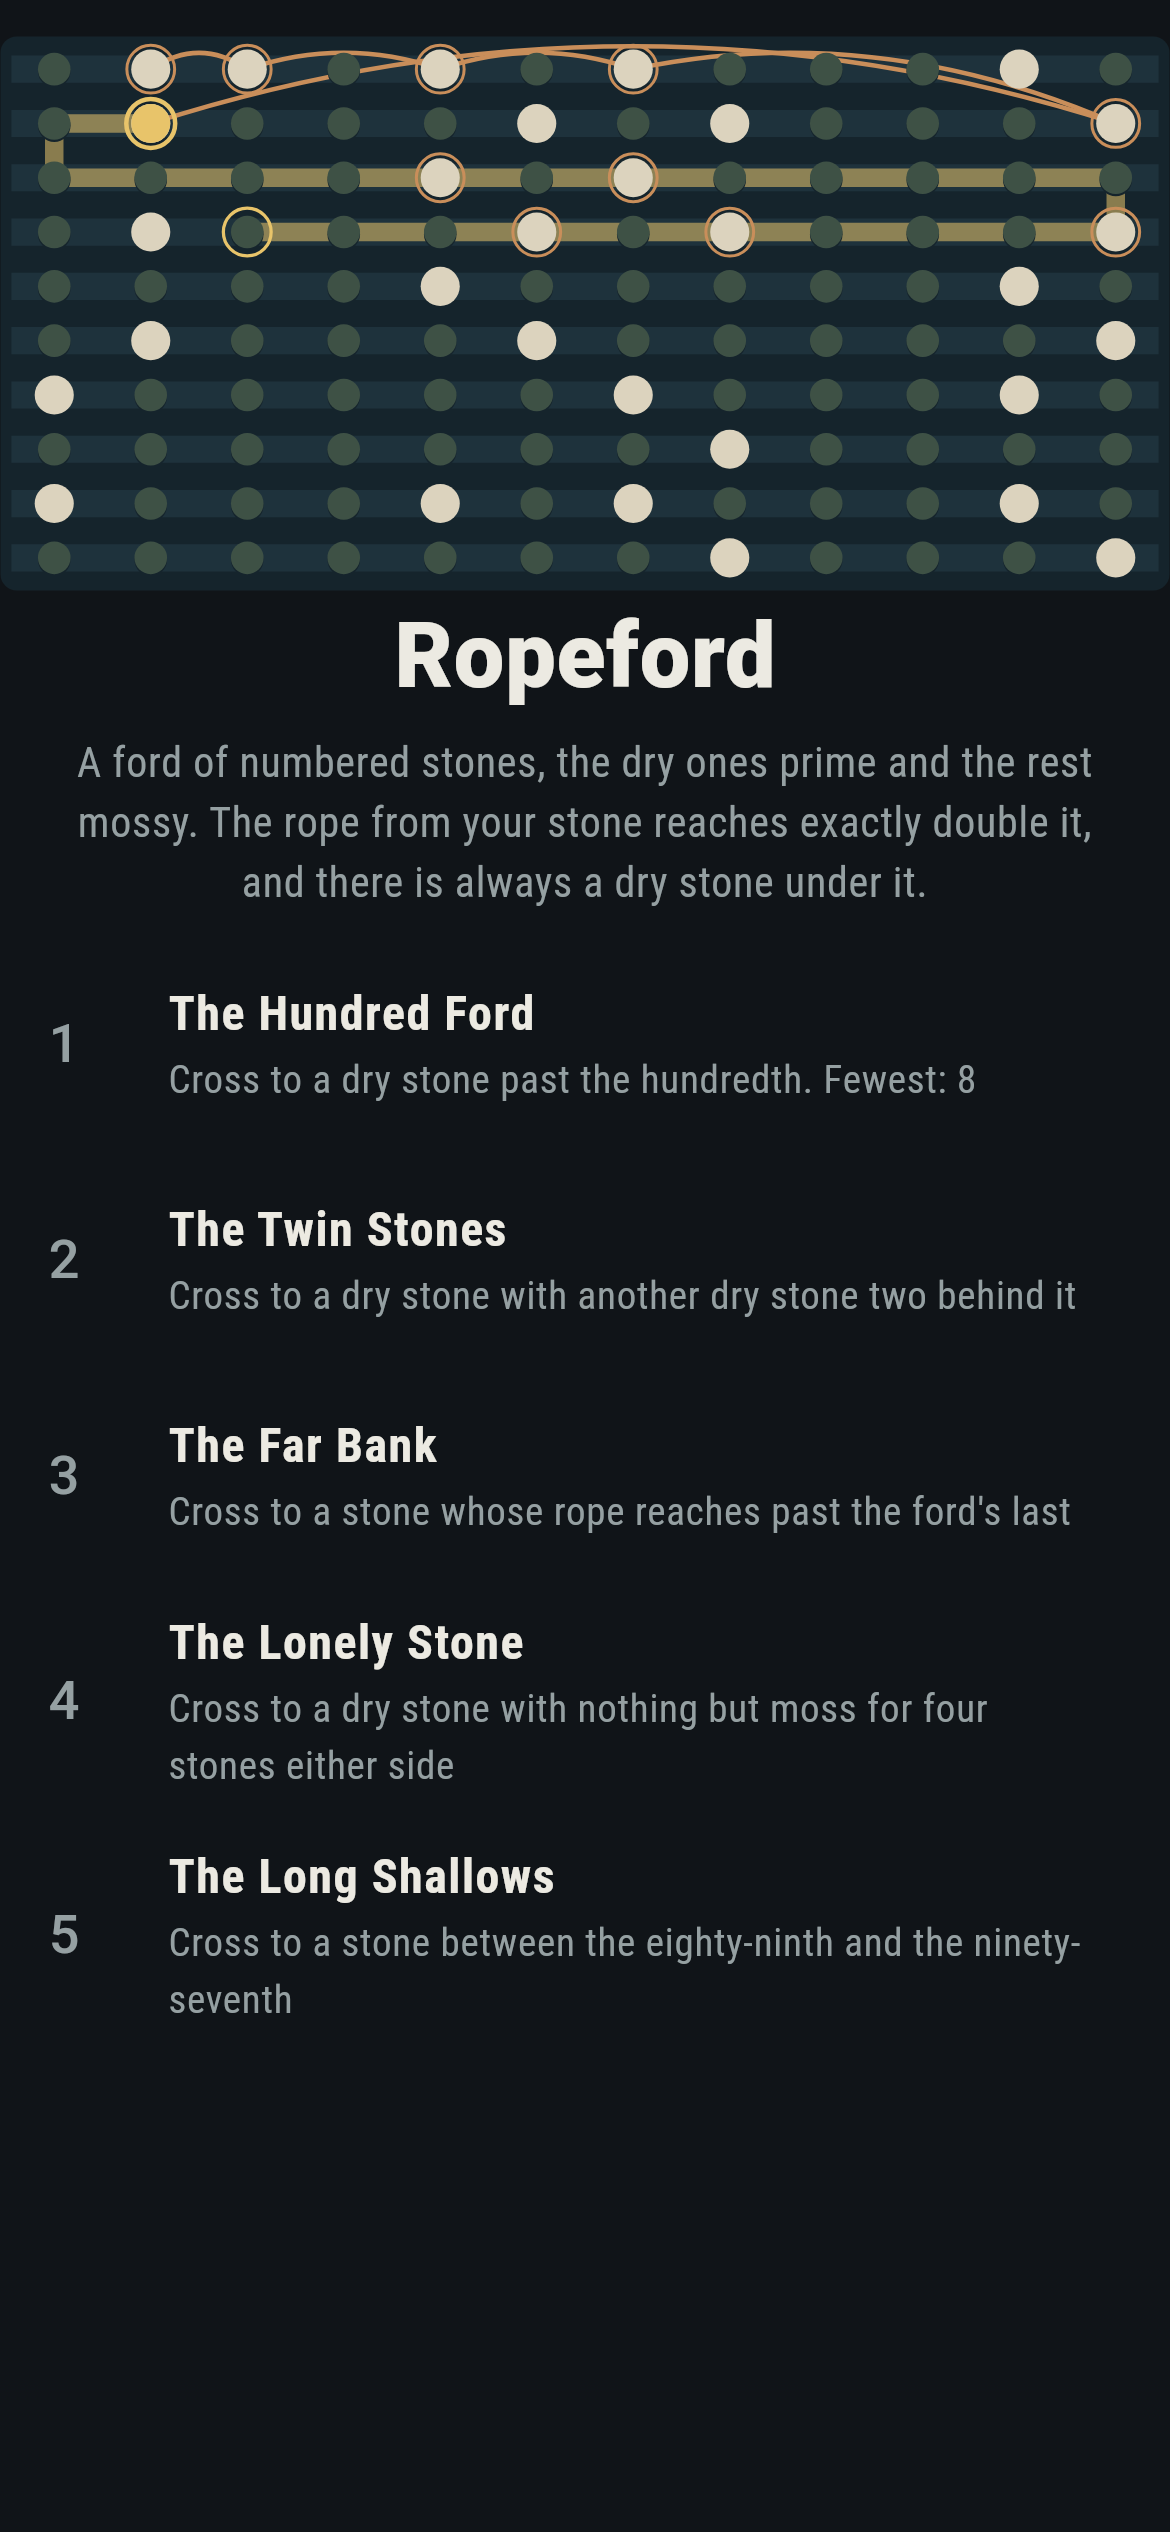
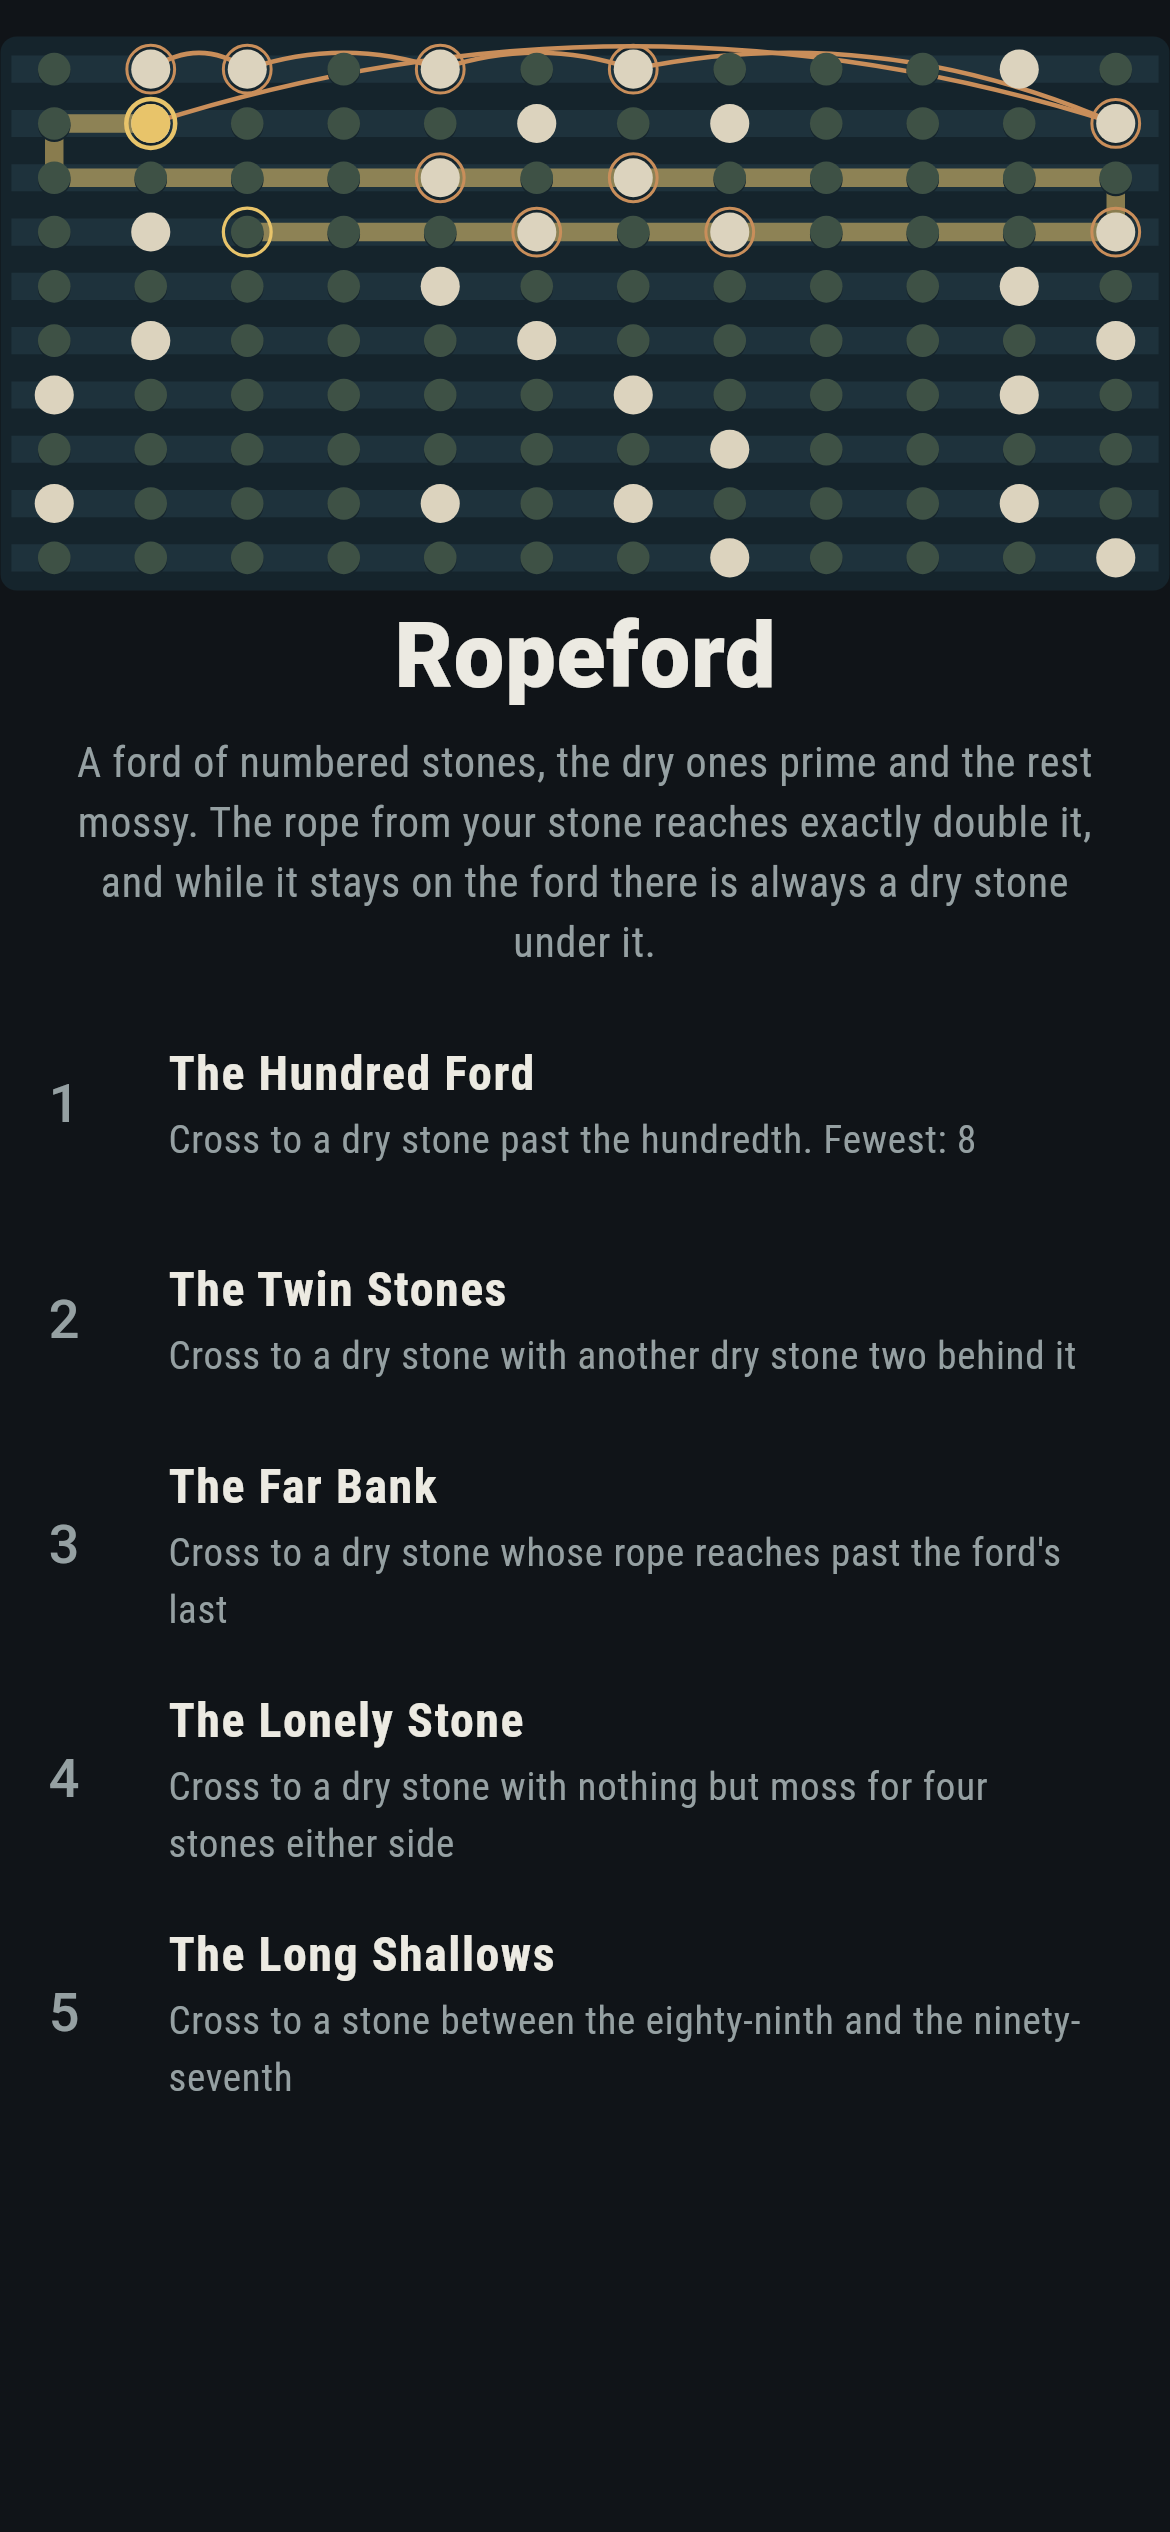
Ropeford: what the checkers found in the prose

diff --git a/Ropeford/lib/ford/play.dart b/Ropeford/lib/ford/play.dart
@@ -114,18 +114,21 @@ String whyWords(Play play) {
       'as far as 2n, and a hop may go to any dry stone past n that the rope '
       'covers. Bertrand\'s postulate says there is always one: for every n '
       'above 1 there is a prime p with n < p < 2n. Joseph Bertrand put it in '
-      '1845 after checking the numbers up to three million; Pafnuty '
-      'Chebyshev proved it in 1852, and Paul Erdos gave the short proof in '
-      '1932, in his first published paper.\n\n'
+      '1845, in the stronger form n < p < 2n - 2, after checking the numbers '
+      'up to three million; Pafnuty Chebyshev proved it in 1850 and printed '
+      'the proof in 1852; Srinivasa Ramanujan gave a simpler proof in 1919, '
+      'and Paul Erdos a short elementary one in 1932, his first paper in a '
+      'research journal.\n\n'
       'What the postulate does not say is where the dry stone will be, and '
       'that is the game. The small cases are settled with a chain of stones '
-      'each less than twice the one before, ${Rules.chain.join(', ')} here, '
-      'and the same chain is what the crossing does when it always takes the '
-      'farthest stone in reach.\n\n'
-      'The sham sieves the ford twice, once by Eratosthenes and once by '
-      'trial division, walks every stone of it for the fewest hops, and '
-      'checks the promise on every number it can reach.\n\n'
+      'each less than twice the one before, and the crossing that always '
+      'takes the farthest stone in reach is one such chain, '
+      '${Rules.chain.join(', ')} here.\n\n'
+      'The sham walks every stone of the ford for the fewest hops. Before it '
+      'shipped, the checker sieved the ford twice, once by Eratosthenes and '
+      'once by trial division, and asked every number up to 200,000 for a '
+      'dry stone inside its rope.\n\n'
       'This is ask $number, ${level.name}. ${level.note}\n\n'
-      'The tile\'s counts are the sweep\'s: every stone of the ford, taken '
-      'in turn.';
+      'The counts on the card at the end are the sweep\'s: every stone of '
+      'the ford, taken in turn.';
 }

diff --git a/Ropeford/tool/check_ford.dart b/Ropeford/tool/check_ford.dart
@@ -104,7 +104,7 @@ void main() {
   check(queue.length == stones.length, 'the walk left stones unreached');
 
   // The layers of that walk are exactly the chain's steps: everything
-  // dry up to the chain's dth stone, and nothing beyond it.
+  // dry up to where the chain stands after d hops, and nothing beyond.
   for (var i = 0; i < stones.length; i++) {
     final d = far[i];
     check(stones[i] <= chain[d] && (d == 0 || stones[i] > chain[d - 1]),
@@ -217,8 +217,9 @@ void main() {
         'inside the rope\'s reach and given one, the first above it found '
         'twice, by a pointer walking the sieve and, up to ${commas(byHand)}, '
         'by trial division counting up from n + 1, the two agreeing on every '
-        'one: the promise never fails, and the closest it comes is stone 3, '
-        'where the next dry stone is 5 and the rope reaches 6; the strict '
+        'one: the promise never fails, and from stone 2 on the stone that '
+        'uses the most of its rope is 3, where the next dry stone is 5 and '
+        'the rope reaches 6; the strict '
         'form n < p < 2n holds from 2 up and fails at 1 alone, where the '
         'only stone in reach is the rope\'s own end')
     ..write('; the greedy crossing, always the farthest stone the rope '
@@ -227,7 +228,8 @@ void main() {
         'stone by stone and chain unseen, gives the same counts: '
         '${passing(100)} hops to pass a hundred, ${passing(1000)} a thousand, '
         '${passing(10000)} ten thousand, and the stones reachable in d hops '
-        'are exactly the dry ones up to the chain\'s dth')
+        'or fewer are exactly the dry ones up to where the chain stands '
+        'after d hops')
     ..write('; on the ford itself, ${Rules.stones} stones with '
         '${Rules.dryStones.length} dry, sieved and divided out and agreeing '
         'on every one, every dry stone can be reached and none takes more '

diff --git a/Ropeford/lib/ford/rules.dart b/Ropeford/lib/ford/rules.dart
@@ -4,11 +4,13 @@
 /// as far as 2n, and a hop may go to any dry stone past n and no
 /// further than the rope's end.
 ///
-/// Bertrand's postulate, put by Joseph Bertrand in 1845 and proved by
-/// Pafnuty Chebyshev in 1852, is that there is always a dry stone in
-/// reach: for every n greater than 1 there is a prime p with
-/// n < p < 2n. So the ford can never strand you, though it never says
-/// where the next dry stone will be.
+/// Bertrand's postulate, put by Joseph Bertrand in 1845 in the stronger
+/// form n < p < 2n - 2 and proved by Pafnuty Chebyshev in 1850, is that
+/// there is always a dry stone in reach: for every n greater than 1
+/// there is a prime p with n < p < 2n. So the numbers can never strand
+/// you, though the ford still can, since it stops at 120: from stone
+/// 113 the next dry stone, 127, is past its end. What the postulate
+/// never says is where the next dry stone will be.
 class Rules {
   /// The ford's stones, 1 to [stones].
   static const stones = 120;
@@ -93,9 +95,9 @@ class Rules {
   }
 
   /// The crossing that always takes the farthest stone in reach, from
-  /// [from] to the end of the ford. It is the certificate the small
-  /// cases of the postulate are settled with, each stone under twice
-  /// the one before.
+  /// [from] to the end of the ford. It is a certificate of the kind the
+  /// small cases of the postulate are settled with, each stone under
+  /// twice the one before.
   static List<int> chainFrom(int from) {
     final walk = [from];
     for (var far = farthest(from); far != null; far = farthest(walk.last)) {

diff --git a/Ropeford/test/ford_test.dart b/Ropeford/test/ford_test.dart
@@ -50,8 +50,8 @@ void main() {
       expect(Rules.hops[89], 8);
       for (final stone in Rules.dryStones) {
         final d = Rules.hops[stone]!;
-        // The stones reached in d hops are exactly the dry ones up to
-        // the chain's dth, which is what the chain is a certificate of.
+        // The stones reached in d hops or fewer are exactly the dry ones
+        // up to where the greedy chain stands after d hops.
         expect(stone, lessThanOrEqualTo(Rules.chain[d]), reason: '$stone');
         if (d > 0) expect(stone, greaterThan(Rules.chain[d - 1]), reason: '$stone');
       }
@@ -98,7 +98,7 @@ void main() {
     test('each ask says what it wants', () {
       expect(Levels.at(0).task, 'cross to a dry stone past the hundredth');
       expect(Levels.at(2).task,
-          'cross to a stone whose rope reaches past the ford\'s last');
+          'cross to a dry stone whose rope reaches past the ford\'s last');
       expect(Levels.at(4).task,
           'cross to a stone between the eighty-ninth and the ninety-seventh');
     });

diff --git a/Ropeford/lib/ford/levels.dart b/Ropeford/lib/ford/levels.dart
@@ -45,13 +45,15 @@ class Levels {
       name: 'The Long Shallows',
       kind: 'shallows',
       ways: 0,
-      note: 'Hopeless, and the tile says so. The seven stones between 89 and '
+      note: 'Hopeless, and the board says so in red. The seven stones '
+          'between 89 and '
           '97 are all mossy: 90, 92, 94 and 96 are even, 93 is 3 times 31, '
           '95 is 5 times 19, and 91, which looks dry enough, is 7 times 13. '
-          'Bertrand promises a dry stone somewhere in the rope\'s reach, '
-          'never one where you happen to want it. From stone 89 the rope '
-          'covers all seven and reaches on to 178, where dry stones are '
-          'plentiful again.',
+          'Bertrand promises a dry stone somewhere in the rope\'s reach and '
+          'never says where it will be. From stone 89 the rope covers all '
+          'seven and reaches on to 178, though the ford stops at 120, and '
+          'the dry stones of the ford under it are 97, 101, 103, 107, 109 '
+          'and 113.',
     ),
   ];
 

diff --git a/Ropeford/lib/ui/result_card.dart b/Ropeford/lib/ui/result_card.dart
@@ -40,9 +40,9 @@ class ResultCard extends StatelessWidget {
       words = 'No crossing ends between 89 and 97. The seven stones there are '
           'all mossy: 90, 92, 94 and 96 are even, ${Rules.tellMoss(93)}, '
           '${Rules.tellMoss(95)}, and ${Rules.tellMoss(91)}. Bertrand\'s '
-          'postulate promises a dry stone somewhere under the rope, never one '
-          'where you want it: from stone ${play.at} the rope reaches '
-          '${play.rope}, and ${play.inReach.isEmpty ? 'the ford runs out first' : 'the dry stones under it are ${play.inReach.join(', ')}'}.';
+          'postulate promises a dry stone somewhere under the rope and never '
+          'says where: from stone ${play.at} the rope reaches '
+          '${play.rope}, and ${play.inReach.isEmpty ? 'the ford runs out first' : 'the dry stones of the ford under it are ${play.inReach.join(', ')}'}.';
     }
     return Card(
       color: Palette.board,

diff --git a/Ropeford/test/screen_test.dart b/Ropeford/test/screen_test.dart
@@ -14,7 +14,8 @@ void main() {
     expect(find.text('stone 2'), findsOneWidget);
     expect(find.text('1 dry in reach'), findsOneWidget);
     expect(find.text('hops 0'), findsOneWidget);
-    expect(find.text('On stone 2, the rope out to 4: the dry stones under it are 3.'),
+    expect(
+        find.text('On stone 2, the rope out to 4: the dry stones of the ford under it are 3.'),
         findsOneWidget);
   });
 
@@ -22,7 +23,8 @@ void main() {
     await open(tester, which: 0);
     await tapStone(tester, 3);
     expect(state(tester).play.at, 3);
-    expect(find.text('On stone 3, the rope out to 6: the dry stones under it are 5.'),
+    expect(
+        find.text('On stone 3, the rope out to 6: the dry stones of the ford under it are 5.'),
         findsOneWidget);
     expect(find.text('hops 1'), findsOneWidget);
     await press(tester, 'Back');

diff --git a/Ropeford/lib/ui/ford_screen.dart b/Ropeford/lib/ui/ford_screen.dart
@@ -140,7 +140,7 @@ class FordScreenState extends State<FordScreen> {
     if (note != null) return 'No hop: $note.';
     final reach = play.inReach;
     final head = 'On stone ${play.at}, the rope out to ${play.rope}: '
-        '${reach.isEmpty ? 'nothing dry left on the ford' : 'the dry stones under it are ${reach.join(', ')}'}.';
+        '${reach.isEmpty ? 'nothing dry left on the ford' : 'the dry stones of the ford under it are ${reach.join(', ')}'}.';
     if (play.gaveUp) return '$head The shallows take no foot.';
     return play.isDone ? 'Across. $head' : head;
   }

diff --git a/Ropeford/lib/ui/title_screen.dart b/Ropeford/lib/ui/title_screen.dart
@@ -44,7 +44,8 @@ class _TitleScreenState extends State<TitleScreen> {
                 child: Text(
                   'A ford of numbered stones, the dry ones prime and the rest '
                   'mossy. The rope from your stone reaches exactly double it, '
-                  'and there is always a dry stone under it.',
+                  'and while it stays on the ford there is always a dry stone '
+                  'under it.',
                   textAlign: TextAlign.center,
                   style:
                       TextStyle(color: Palette.inkDim, fontSize: 14),

diff --git a/Ropeford/test/showcase_test.dart b/Ropeford/test/showcase_test.dart
@@ -13,8 +13,8 @@ import 'support/fordland.dart';
 /// the game for somebody to look at: the real widget tree at real phone
 /// dimensions, drawn by the engine the app uses.
 ///
-/// Every stone in them was hopped to by a tap, so nothing in the
-/// pictures is a crossing the game could not make.
+/// Every hop in them was made by a tap on the stone, so no crossing in
+/// the pictures is one the game could not make.
 ///
 /// Run it with: make shots
 void main() {

diff --git a/Ropeford/lib/ford/level.dart b/Ropeford/lib/ford/level.dart
@@ -70,7 +70,7 @@ class Level {
       case 'twin':
         return 'cross to a dry stone with another dry stone two behind it';
       case 'far':
-        return 'cross to a stone whose rope reaches past the ford\'s last';
+        return 'cross to a dry stone whose rope reaches past the ford\'s last';
       case 'lonely':
         return 'cross to a dry stone with nothing but moss for four stones either side';
       default:

diff --git a/Ropeford/test/mark_test.dart b/Ropeford/test/mark_test.dart
@@ -15,7 +15,8 @@ import 'support/fonts.dart';
 
 /// Draws the logo and the app icons.
 ///
-/// There is no image in this repository that was not produced here.
+/// Every icon and the logo are drawn here. The screenshots in docs/ come
+/// out of showcase_test.dart.
 void main() {
   const out = 'assets';
   const frame = Key('mark');
